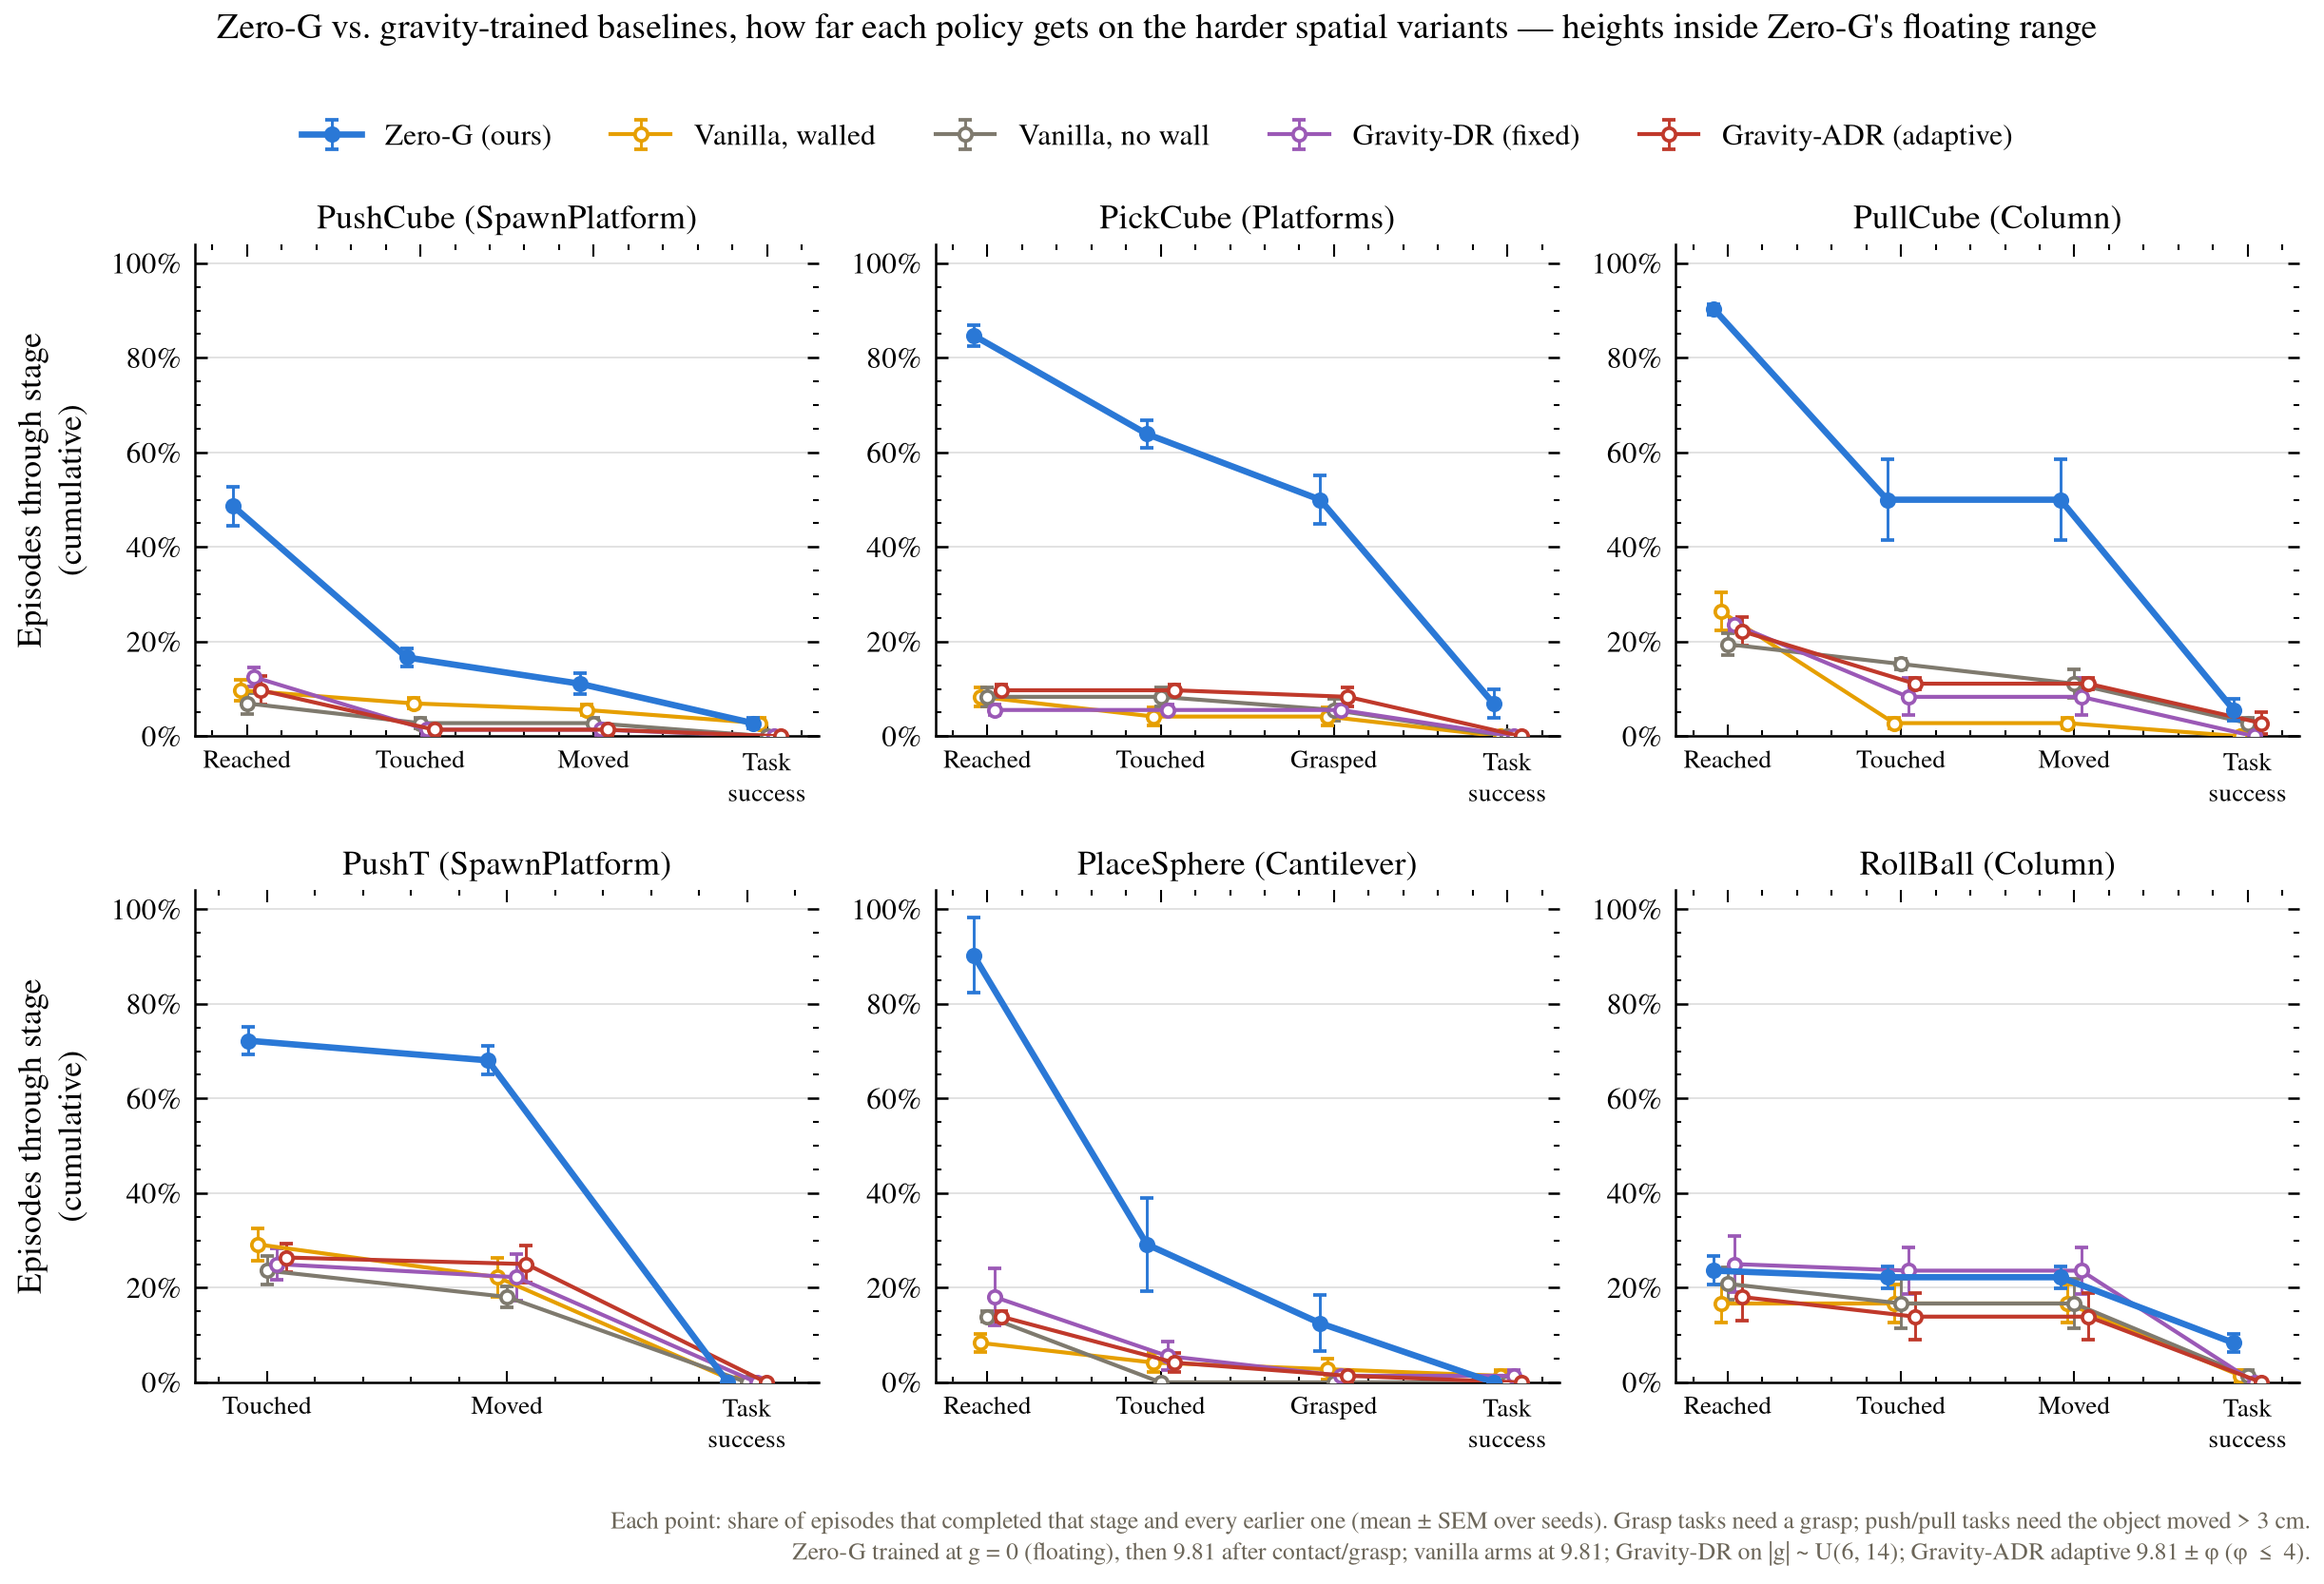
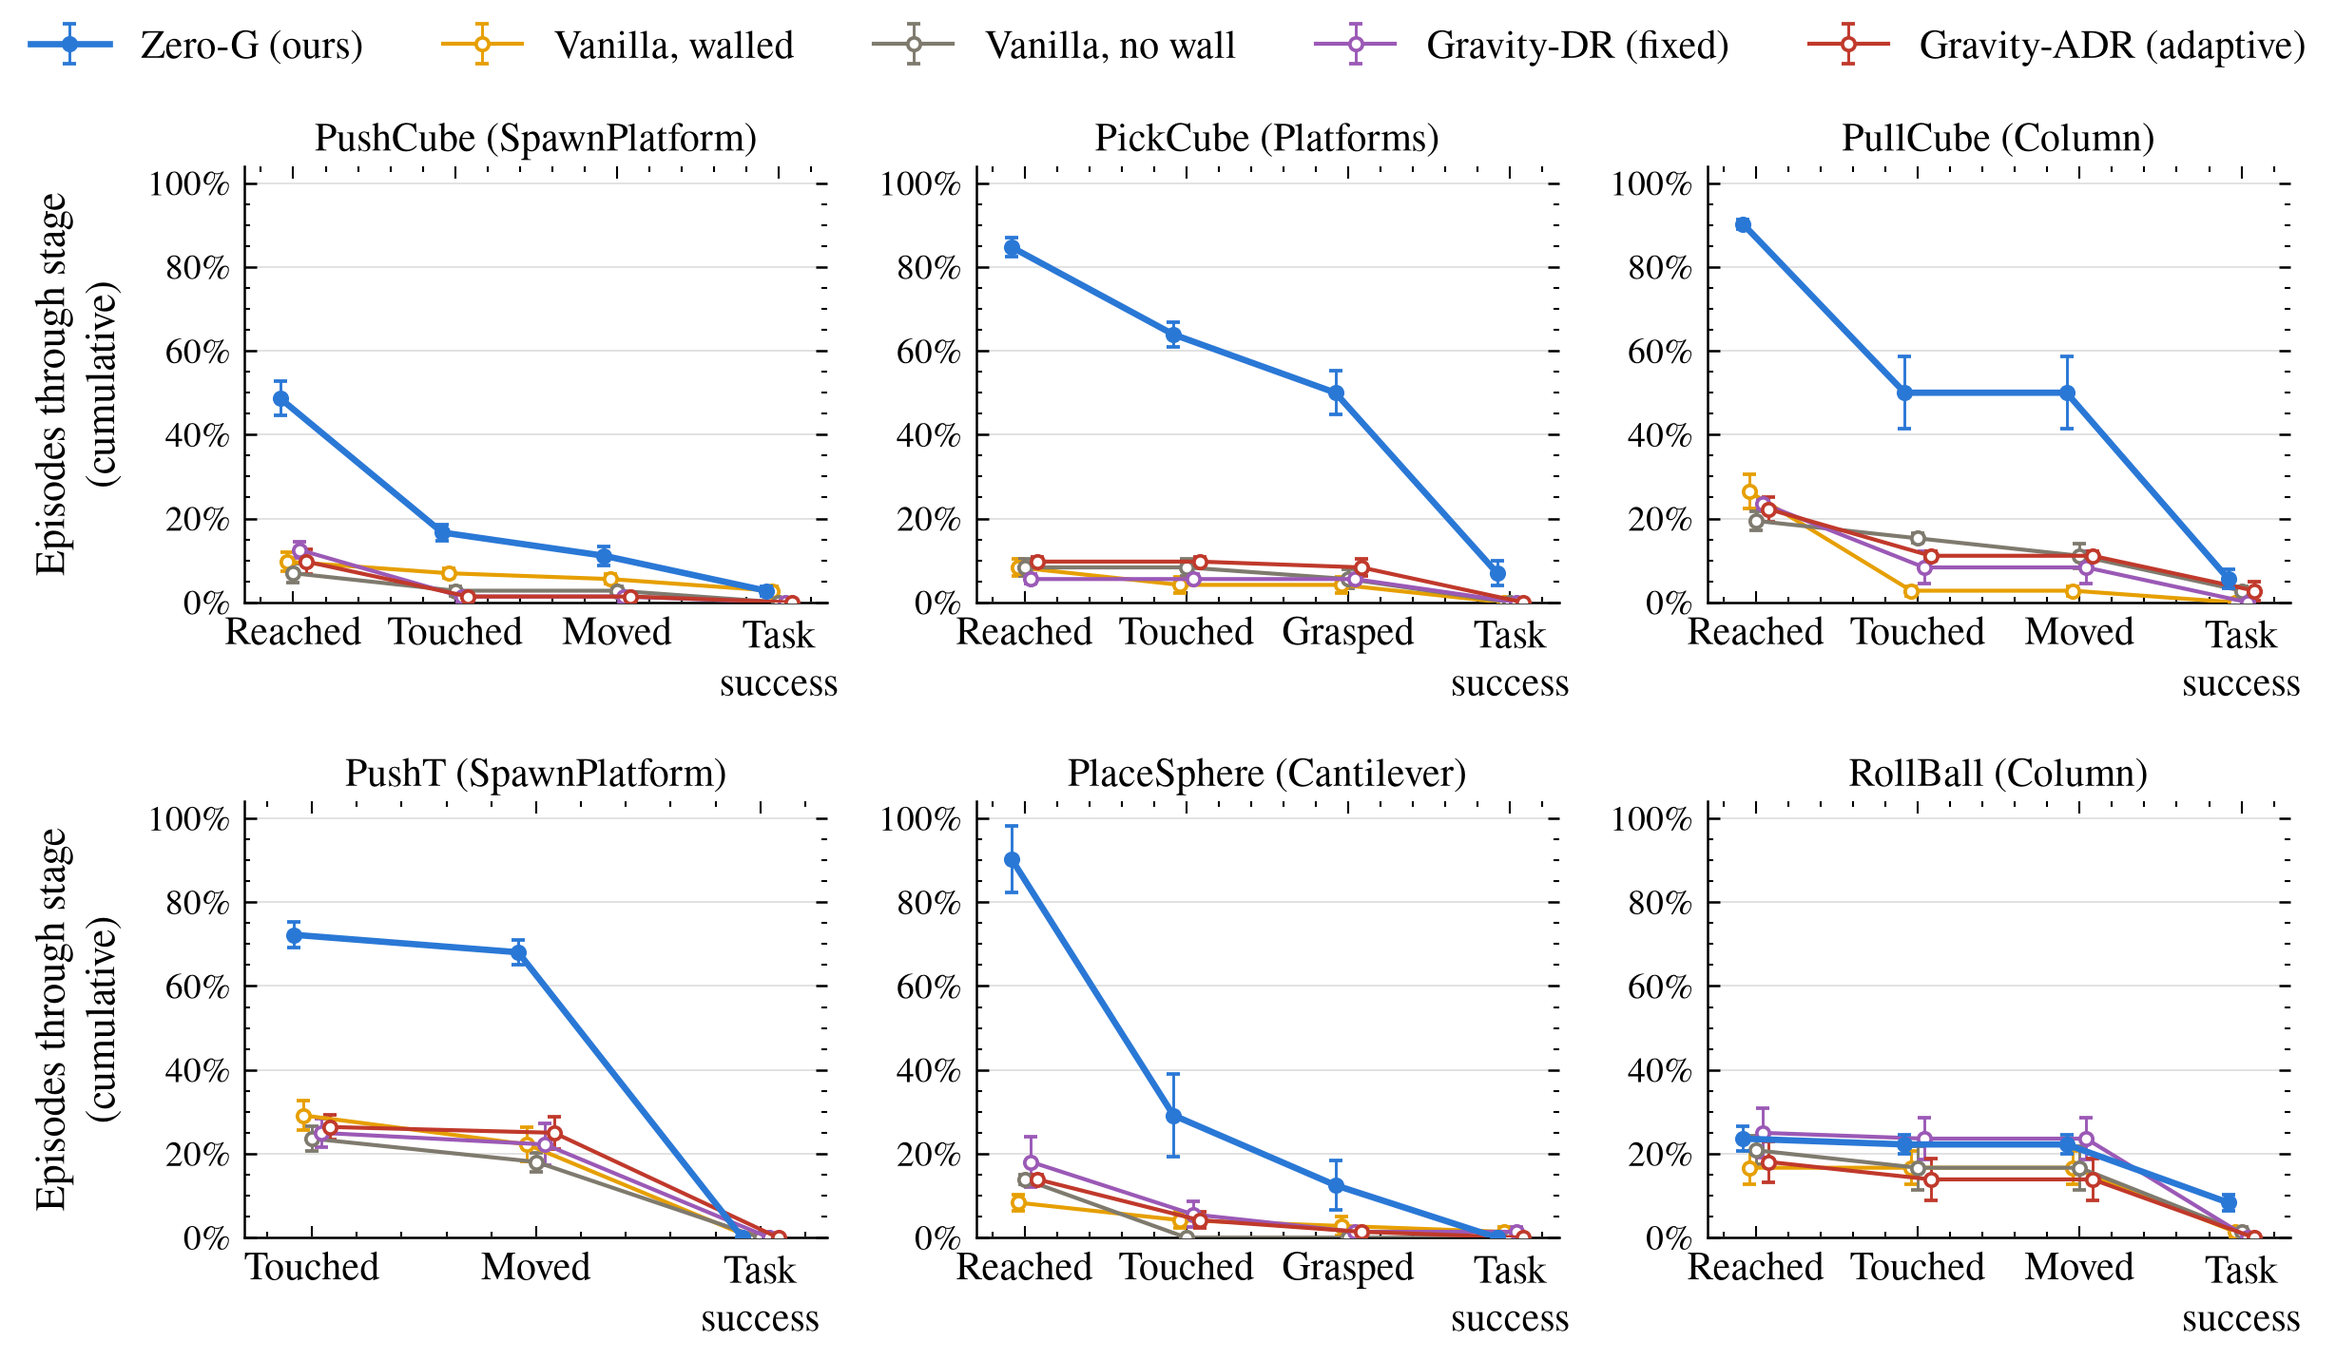
Headline figure: match TL;DR width, add spacing, larger web version with a phone layout
Claude-Session: https://claude.ai/code/session_01UjkjnsmNTetpR5MXkkNTSc

diff --git a/index.html b/index.html
@@ -79,7 +79,10 @@
     </div>
 
     <figure class="fig headline-result">
-      <img src="static/images/fig_stage_funnel_zg.png" alt="Six line charts, one per task, showing for each training arm the share of episodes that reached, touched, grasped or moved the object, and succeeded, when the object rests on a support at a new height. The Zero-G line sits far above the four gravity-trained baselines on five of six tasks." loading="lazy">
+      <picture>
+        <source media="(max-width: 640px)" srcset="static/images/fig_stage_funnel_zg_narrow.png">
+        <img src="static/images/fig_stage_funnel_zg.png" alt="Six line charts, one per task, showing for each training arm the share of episodes that reached, touched, grasped or moved the object, and succeeded, when the object rests on a support at a new height. The Zero-G line sits far above the four gravity-trained baselines on five of six tasks." loading="lazy">
+      </picture>
       <figcaption>
         <b>Headline result <span class="badge prelim">preliminary</span> &mdash; Zero-G policies go to objects at new heights.</b>
         We place each task's object on a support at heights where Zero-G experts saw objects floating during training

diff --git a/static/css/style.css b/static/css/style.css
@@ -231,5 +231,6 @@ footer { border-top: 1px solid var(--line); margin-top: 40px; padding: 24px 0 40
 .teaser-top figcaption { text-align: center; }
 
 /* headline result figure under the TL;DR (2026-10-08) */
-.headline-result { max-width: 980px; margin: 22px auto 18px; }
-.headline-result figcaption { max-width: 860px; margin-left: auto; margin-right: auto; }
+.headline-result { max-width: 820px; margin: 40px auto 30px; padding: 12px 14px 14px; }
+.headline-result img { width: 100%; height: auto; }
+.headline-result figcaption { text-align: left; font-size: 14px; margin-top: 10px; }
